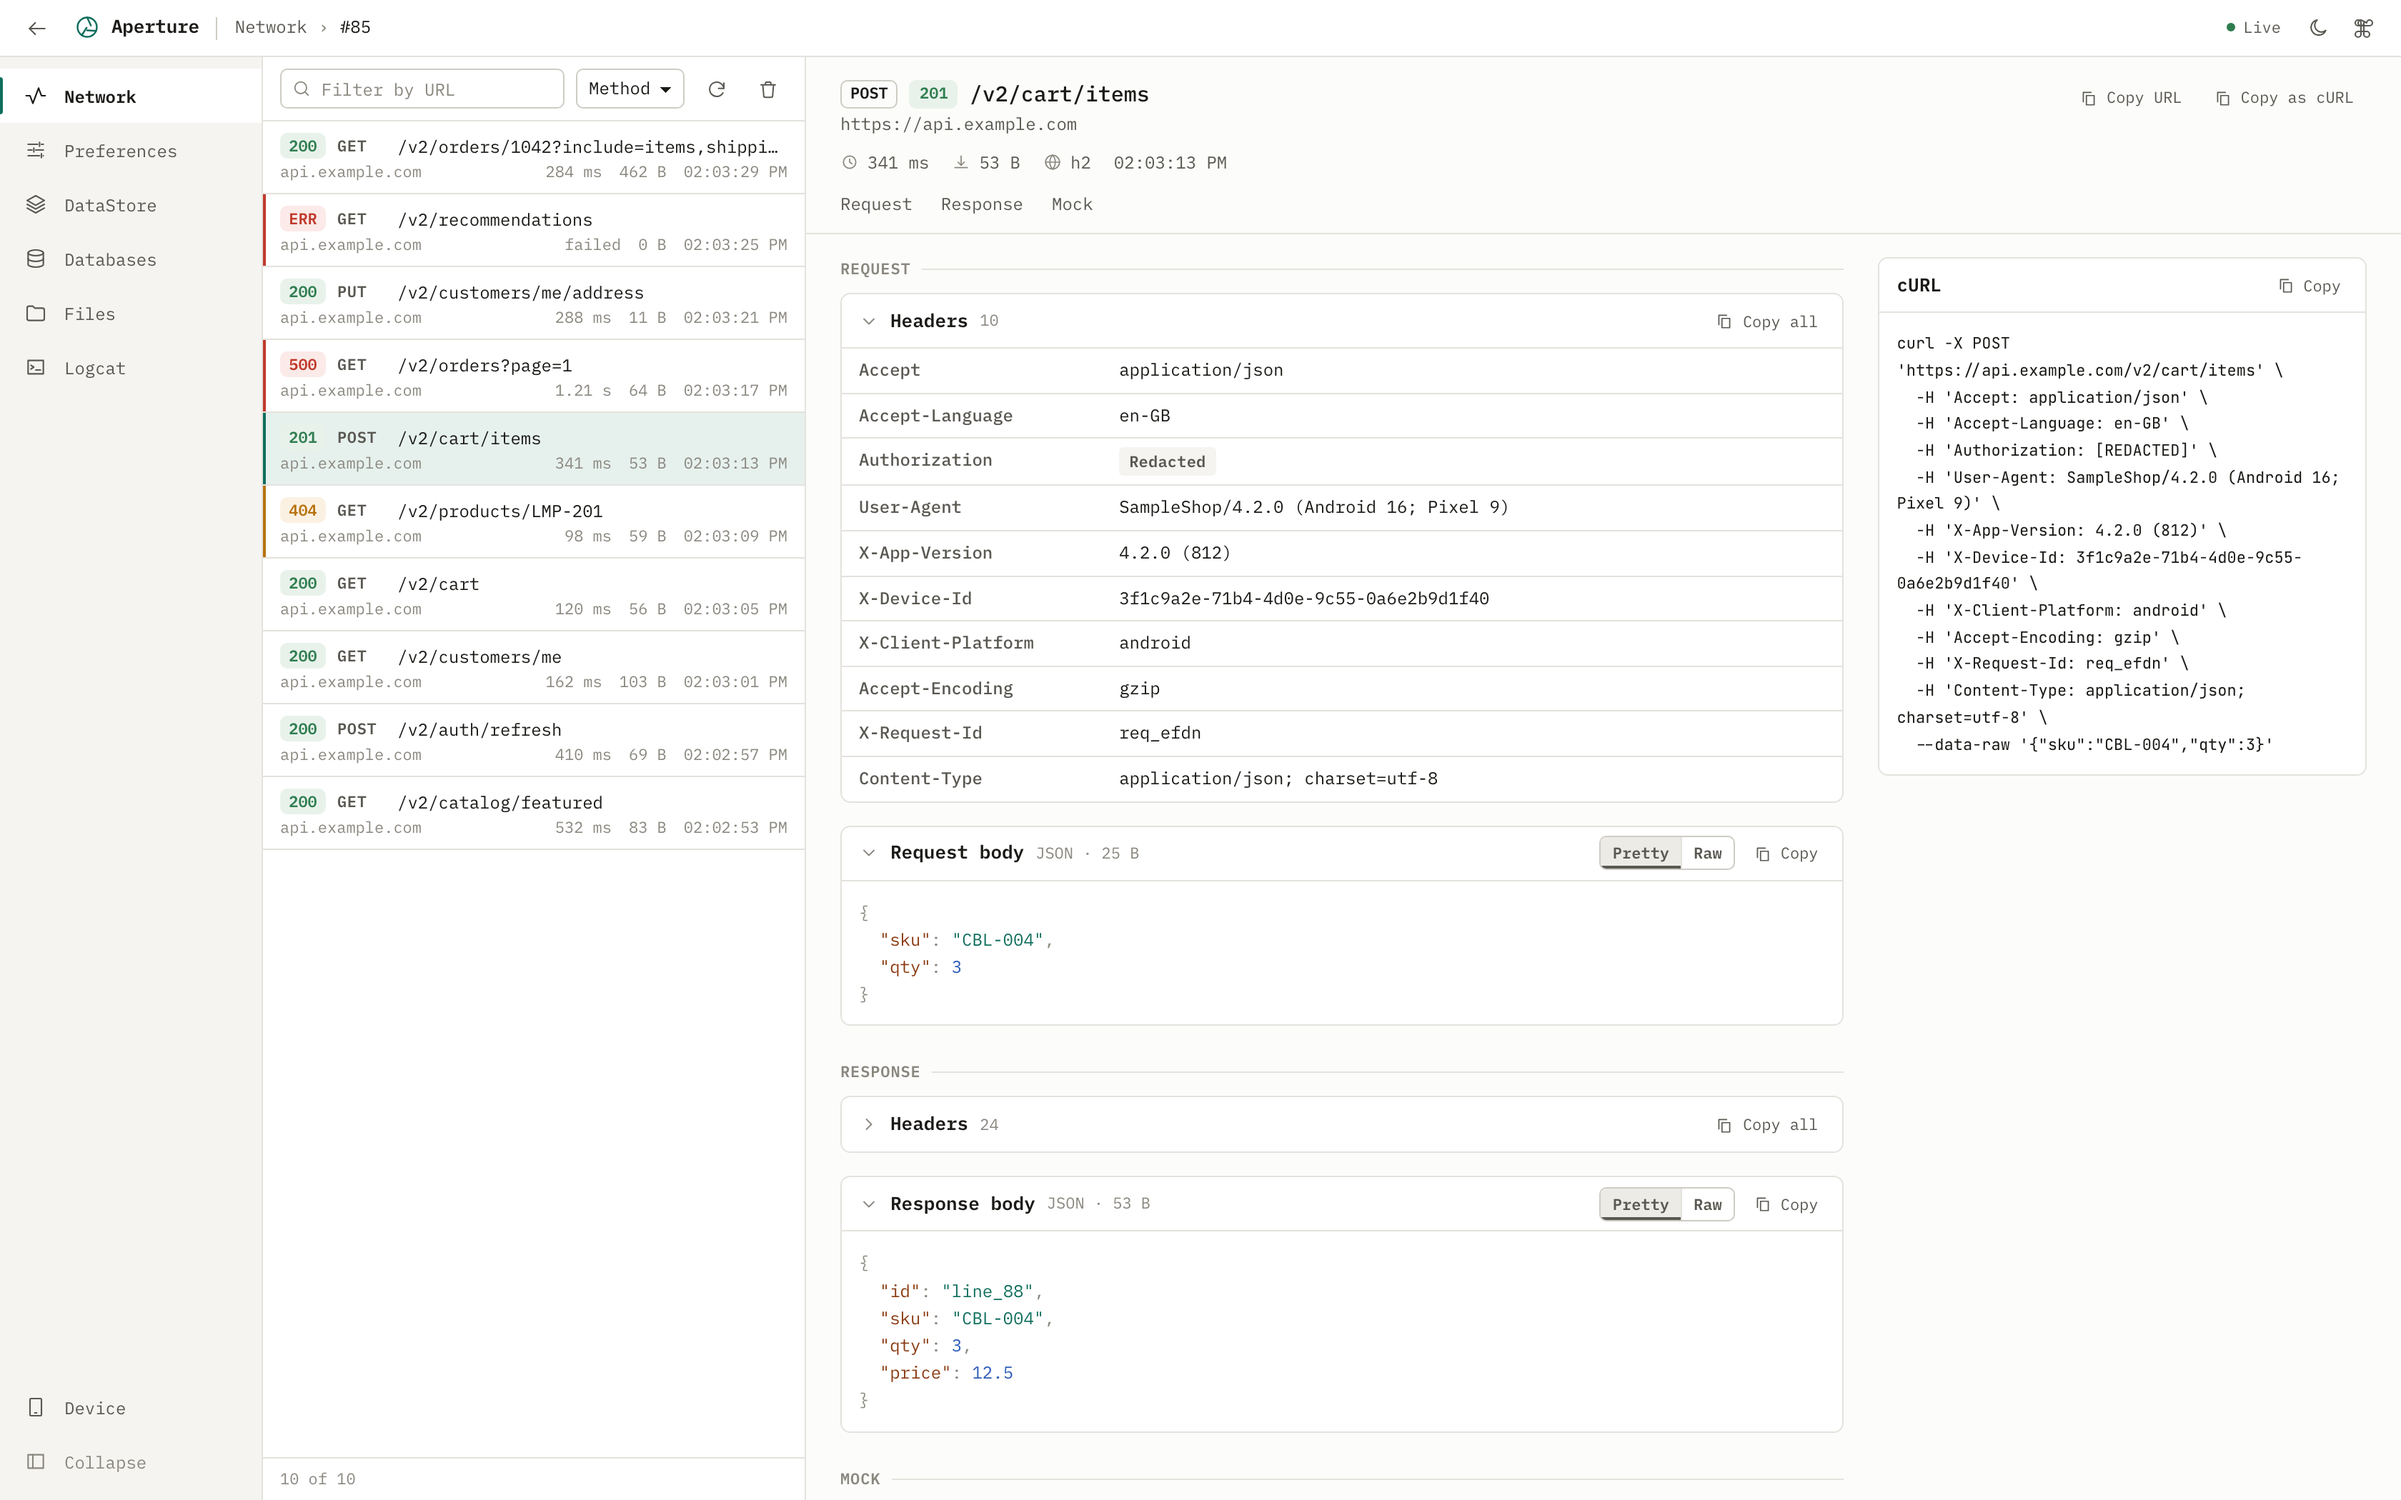
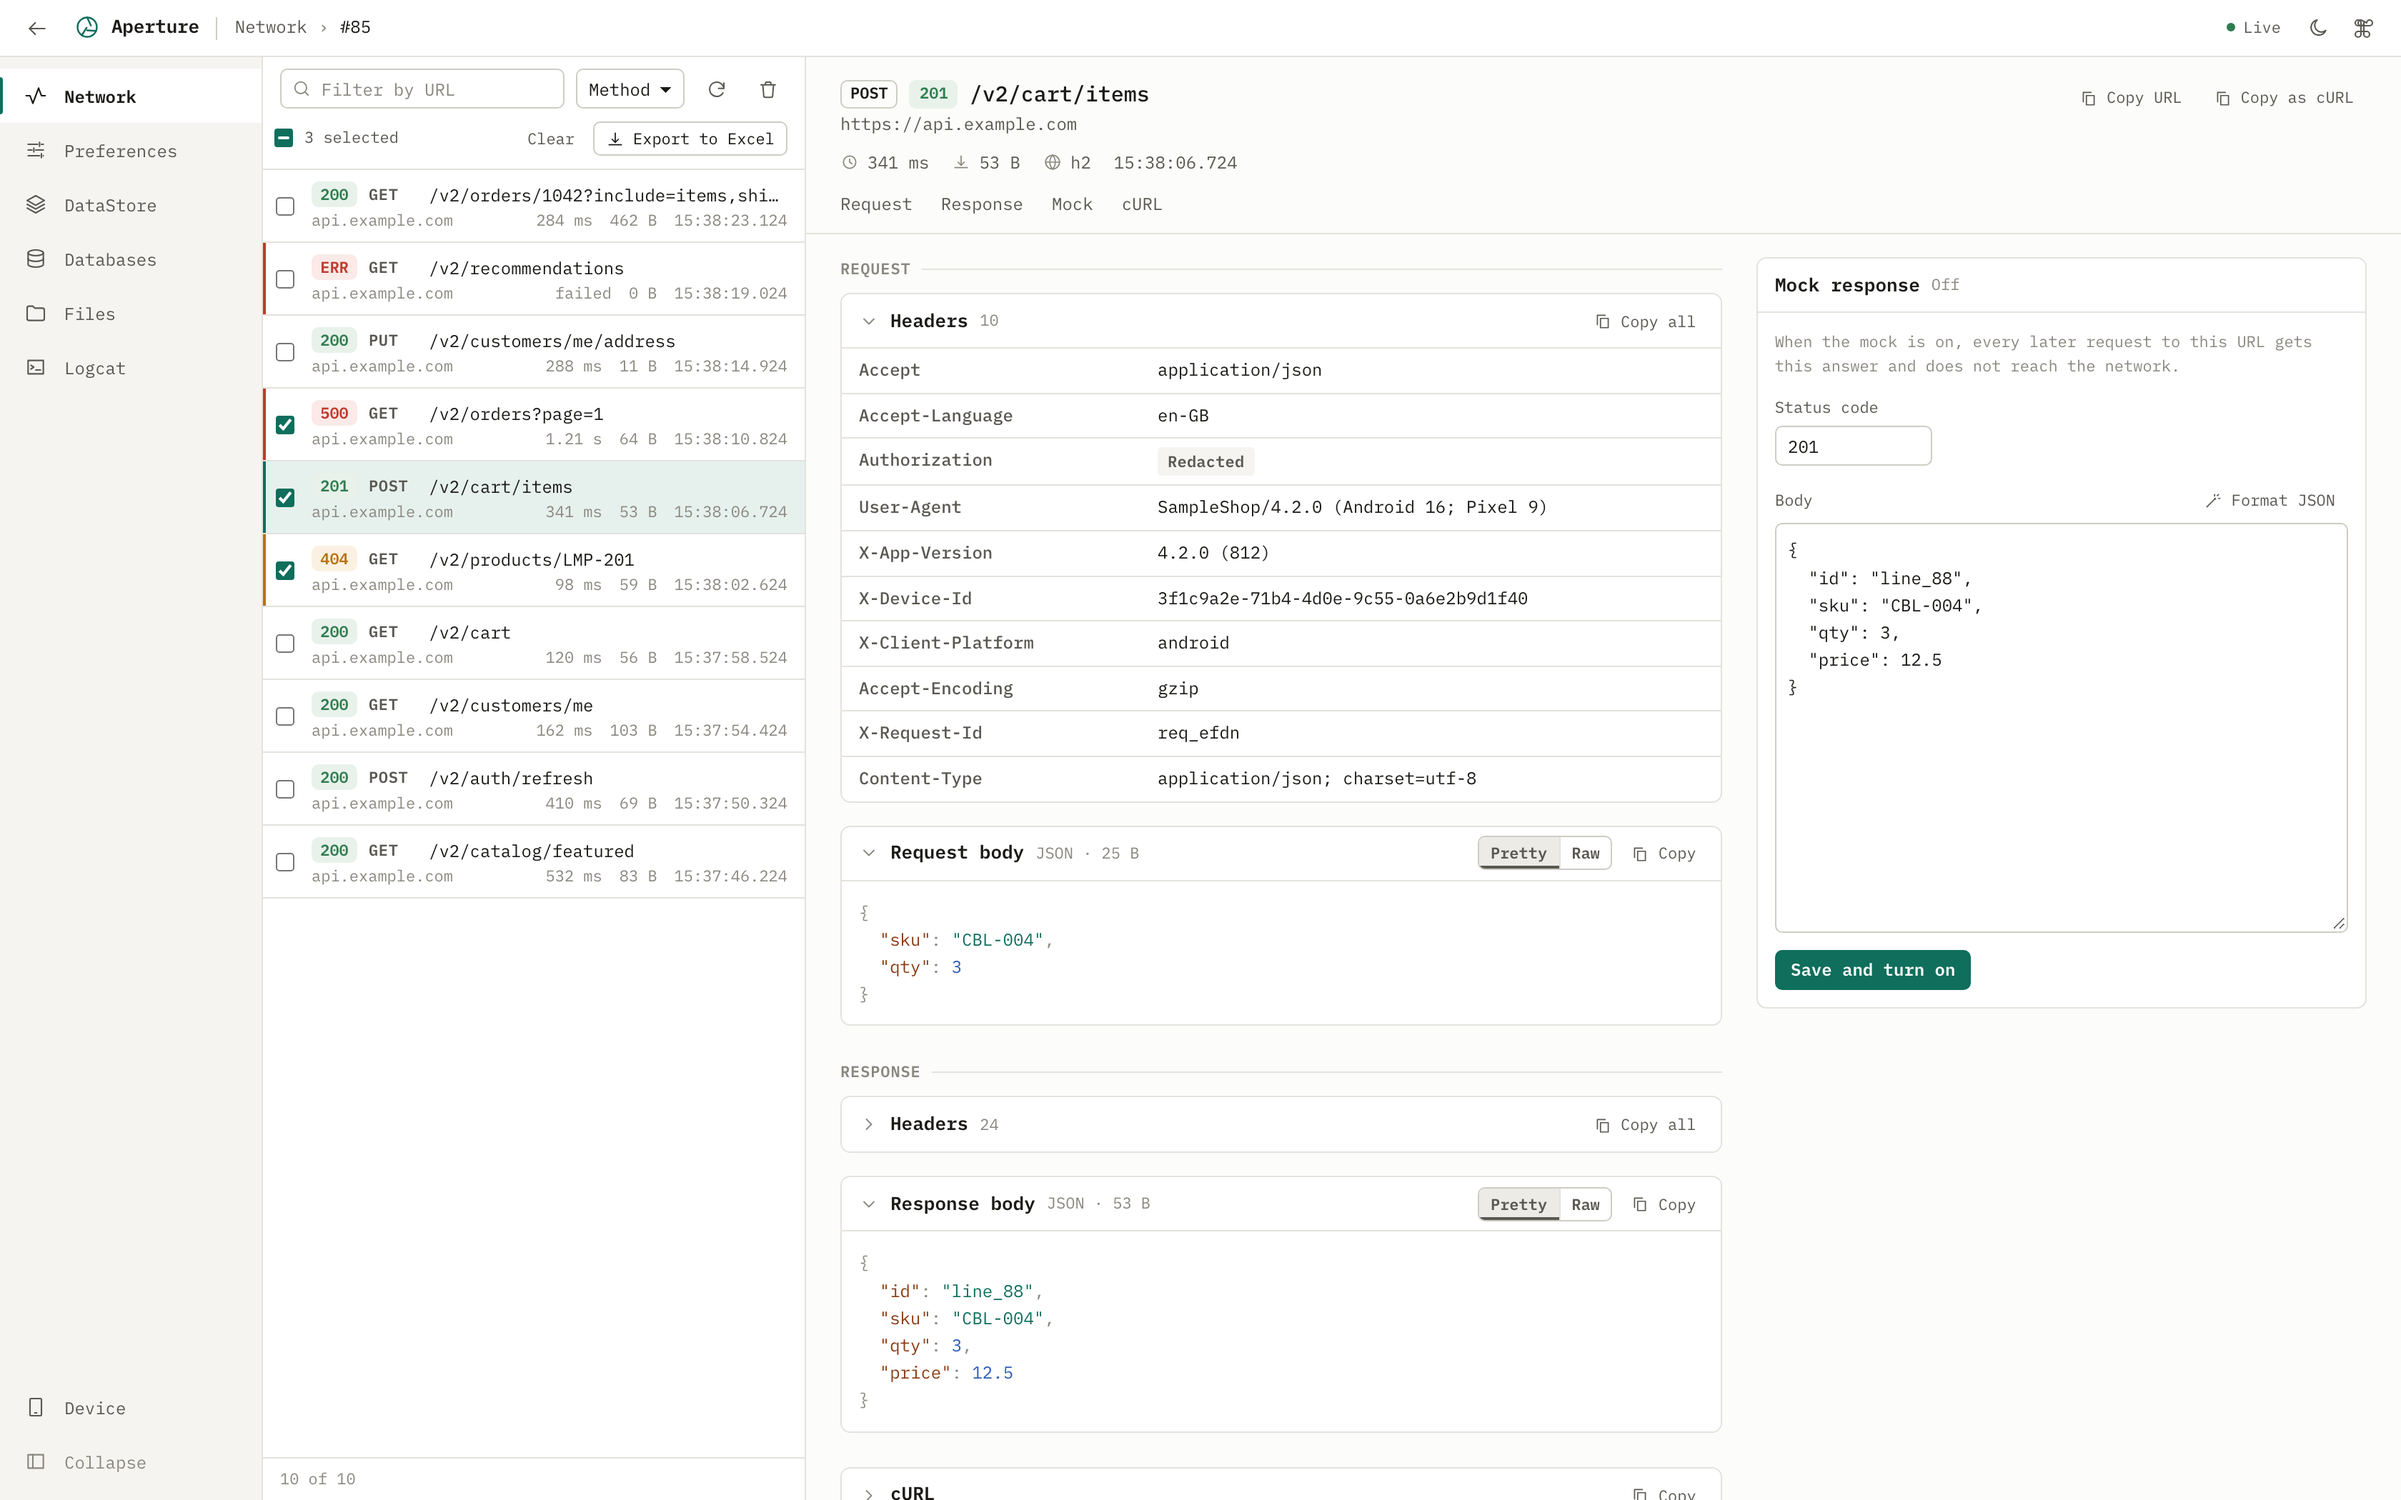
build(publishing): release 1.4.0

diff --git a/README.md b/README.md
@@ -29,6 +29,7 @@ single port forward.
 - ✍ **Read and write** - change app state and watch the app pick it up, opt-in per app
 - 🎭 **Response mocking** - mock API responses without changing your code
 - 📋 **Copy as cURL** - replay any captured request from a terminal
+- 📊 **Export to Excel** - tick calls, or all of them, and get the sequence as an .xlsx sheet
 - ⌘ **Command palette and keyboard** - reach any panel, file or table without the mouse
 - 🎨 **Light and dark** - follows the system, with a toggle that overrides it
 - 📱 **Responsive** - three panes on a laptop, a stack with a tab bar on a phone
@@ -44,8 +45,8 @@ Add to your app's `build.gradle.kts`:
 
 ```kotlin
 dependencies {
-    debugImplementation("io.github.desertstack:aperture:1.3.0")
-    releaseImplementation("io.github.desertstack:aperture-no-op:1.3.0")
+    debugImplementation("io.github.desertstack:aperture:1.4.0")
+    releaseImplementation("io.github.desertstack:aperture-no-op:1.4.0")
 
     // Required: Aperture hooks into your OkHttp client and does not bundle it
     implementation("com.squareup.okhttp3:okhttp:4.12.0")
@@ -196,7 +197,7 @@ The server binds its port on a background thread, so this banner appears a momen
 app starts.
 
 
-<img src="web_ui.png" alt="The Aperture console: the panel rail on the left, the request list, and a POST request with its headers, JSON bodies and a cURL command" width="100%">
+<img src="web_ui.png" alt="The Aperture console: the panel rail on the left, the request list with calls ticked for export, and a POST request with its headers and JSON bodies, and the mock editor beside them" width="100%">
 
 Open this URL in any browser on your network to inspect traffic!
 
@@ -373,11 +374,10 @@ Aperture.initialize(this, ApertureConfig.LOCALHOST_ONLY)
 
 ### Enable Mocking via Web UI
 
-1. Click on any transaction in the web UI
-2. Toggle "Enable Mock Response"
-3. Set custom status code, headers, and body
-4. Click "Save Mock"
-5. Future requests to the same URL will return your mocked response!
+1. Click a request in the Network list.
+2. The mock editor is in the column on the right. Set the status code and the body.
+3. Click **Save and turn on**.
+4. Every later request to the same URL gets your response and does not reach the network.
 
 ### Programmatic Mock Control
 
@@ -479,12 +479,19 @@ someone else.
 
 - **Network** — a live list of every call in the order it happened, with search and method
   filters. There is no status filter, because hiding calls by status breaks their order: a
-  failed or 4xx/5xx call stands out by its badge and its coloured edge. The detail is one page:
-  request headers and body, response headers and body, and the mock editor, with cURL in a
-  column beside them. Headers show as a table, JSON bodies in colour with a Pretty/Raw switch,
-  and every part has Copy. Each section folds, and the console remembers which ones you closed.
-  The list carries summaries only, so a captured body never reaches memory for a view that does
-  not draw it.
+  failed or 4xx/5xx call stands out by its badge and its coloured edge. Times show to the
+  millisecond. The detail is one page: request headers and body, response headers and body, and
+  cURL, with the mock editor in a column beside them that stays on screen. Headers show as a
+  table, JSON bodies in colour with a Pretty/Raw switch, and every part has Copy. Each section
+  folds, and the console remembers which ones you closed. The list carries summaries only, so a
+  captured body never reaches memory for a view that does not draw it.
+- **Export to Excel** — tick calls in the Network list (Shift-click ticks a range), or tick
+  **Select all** for every call under the filters, then click **Export to Excel**. The file has
+  one row per call, oldest first: the start time to the millisecond, duration, method, status,
+  URL, request and response headers and bodies, sizes, whether it was mocked, the error, and
+  the cURL command. The device writes the file one call at a time, with no extra library.
+  An Excel cell holds 32,767 characters, so a longer body is cut and says so. A binary body
+  shows as a note with its size.
 - **Preferences** and **DataStore** — every key with its real type. An edit keeps that type
   unless you say otherwise, because writing a Long into a key the app reads with `getInt` throws
   inside your app.
@@ -573,6 +580,37 @@ limitations under the License.
 - Built with ❤ for the Android community
 
 ## 📋 Changelog
+
+### 1.4.0
+
+The mock editor moves to where you can see it, and a captured call sequence can leave the
+console as an Excel sheet. Upgrade from 1.3.x; no public API has changed.
+
+**Added**
+
+- **Export to Excel.** Tick calls in the Network list, or tick Select all, and click Export to
+  Excel. You get one `.xlsx` sheet with one row per call in the order they happened, with the
+  request and the response. Select all takes every call under the search and method filters,
+  also the ones not loaded yet, but not the calls that arrive after the click. JSON bodies are
+  indented with every value kept as the server sent it. The device writes the file one call at
+  a time, so a long sequence does not fill the app's memory, and the library gets no new
+  dependency.
+
+**Changed**
+
+- **The mock editor is in the column on the right** and stays on screen while you scroll the
+  request and response. It used to be folded at the bottom of the page.
+- **cURL is a folding section after the response.** Copy as cURL stays in the request head.
+- **Times show to the millisecond** (`15:30:50.167`), so calls close together are in a clear
+  order.
+- **The two columns stay side by side on a laptop screen.** They now stack only when the
+  request pane is narrower than 720 px.
+
+**Fixed**
+
+- **The console showed the wrong library version.** The number was typed by hand and stayed at
+  1.2.0 in 1.2.1 and 1.3.0. It now comes from the published version.
+- **Header names such as Accept-Language no longer break across two lines.**
 
 ### 1.3.0
 
